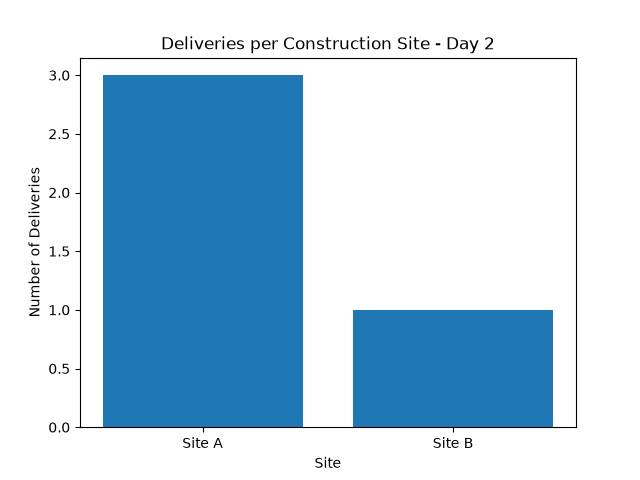
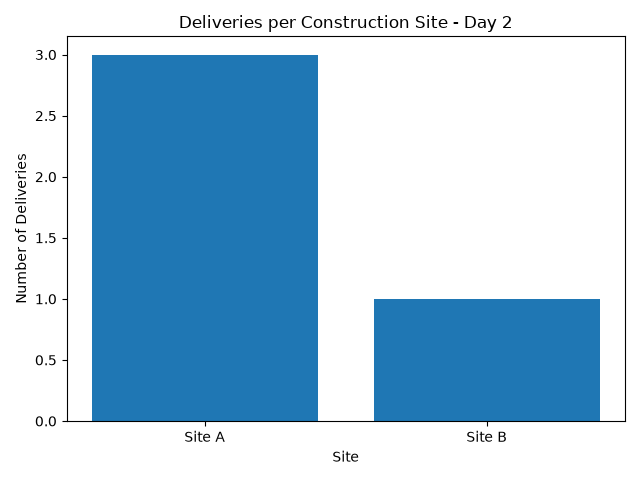
Day 2: Add deliveries and quantity charts - clean visualizations

Changed region(s): [[0.0312, 0.0312, 0.9375, 0.9375], [0.5, 0.9375, 0.5625, 1.0], [0.0625, 0.0938, 0.0938, 0.125]]

diff --git a/scripts/visualize_materials.py b/scripts/visualize_materials.py
@@ -7,6 +7,8 @@ plt.bar(df['site'], df['total_deliveries'])
 plt.title("Deliveries per Construction Site - Day 2")
 plt.xlabel("Site")
 plt.ylabel("Number of Deliveries")
+plt.xticks(rotation=0)
+plt.tight_layout()
 plt.savefig("data/deliveries_per_site.png")
 print("Saved: deliveries_per_site.png")
 

diff --git a/README.md b/README.md
@@ -1,6 +1,11 @@
 # de-101-pipeline
 My first Data Engineering pipeline - Zero to Hero journey.
+## 📊 Day 2 - Visualizations
+![Deliveries per Site](data/deliveries_per_site.png)
+![Total Quantity per Site](data/quantity_per_site.png)
 
+- Site A: 3 deliveries, 500 units
+- Site B: 1 delivery, ~350 units
 ## What it does
 - Ingest raw CSV data
 - Clean & transform with Python (Pandas)
